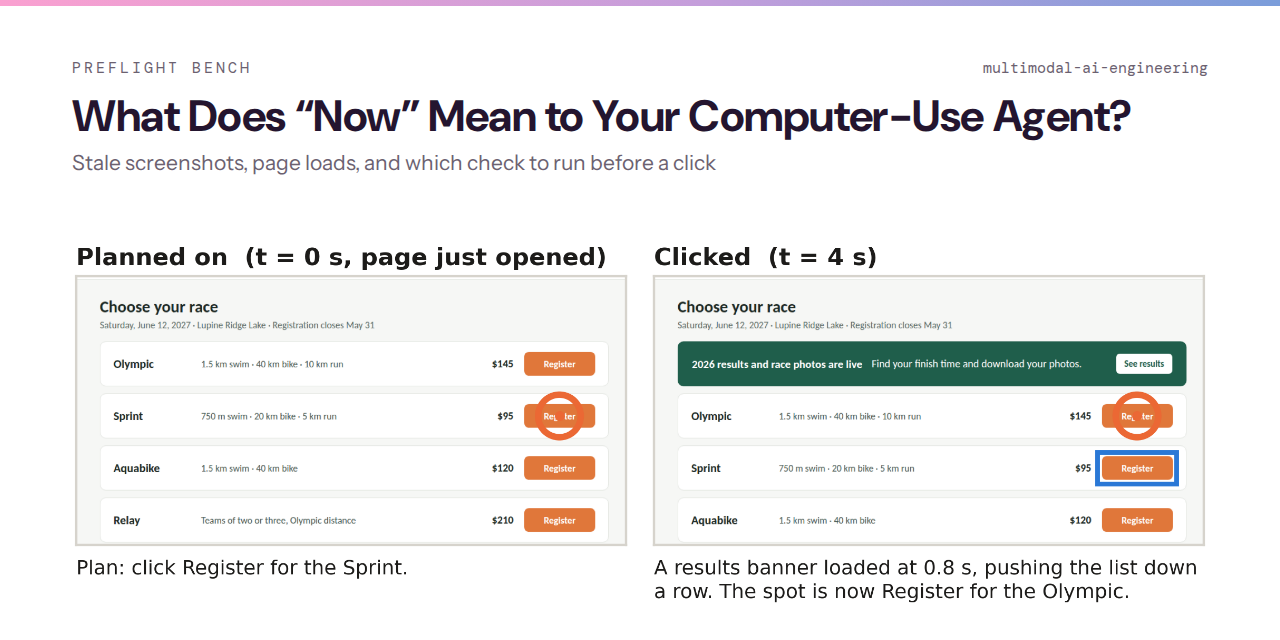
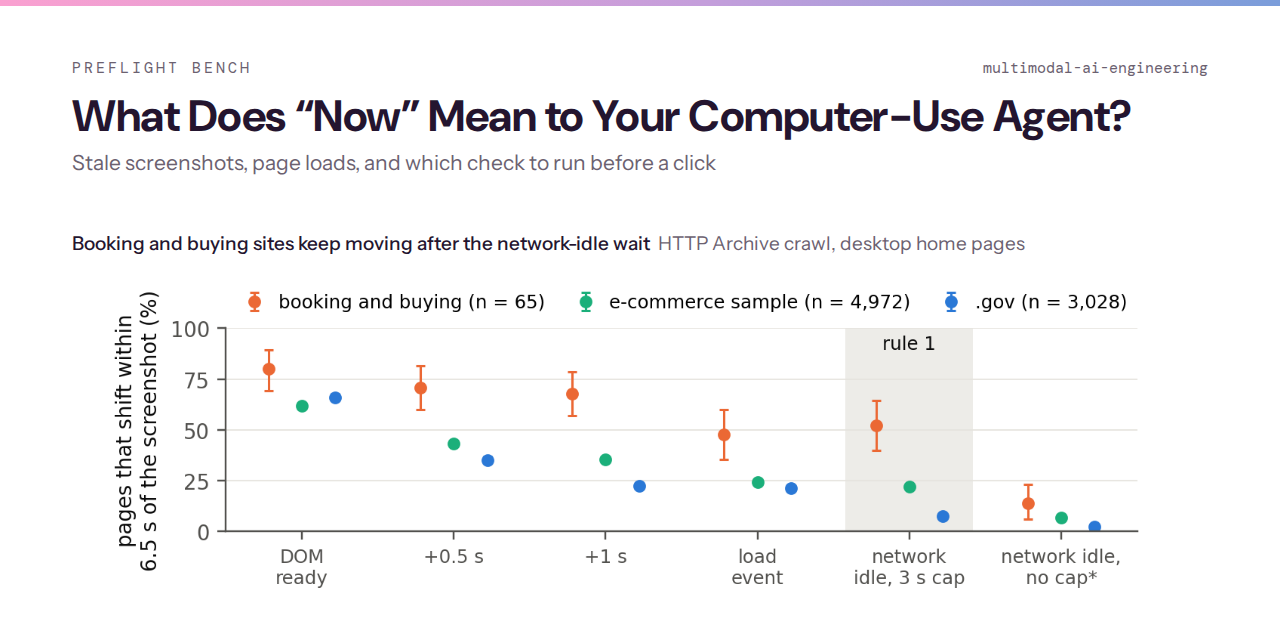
Remove the race-page screenshots: README figure and social preview now show the commercial-page result
- Deleted docs/assets/stale-click.gif and benchmark/examples/race/planned.png, clicked.png; .gitignore keeps regenerated copies out.
- The race page and its scripts stay, because the paper's Figure 1 caption says they are in the repository.
- README figure: the HTTP Archive commercial-page result (results/commercial/fig_commercial.png).
- docs/assets/social-preview.png re-rendered with the same figure.

Claude-Session: https://claude.ai/code/session_01CBJDLVs5twega6dcmgf5af

diff --git a/README.md b/README.md
@@ -22,8 +22,8 @@ A computer-use agent captures a screenshot, plans for several seconds, and then 
 4. **A break-even formula predicts when a check is worth its cost.** Its check-or-skip decisions agreed with held-out data in 95% of cases.
 
 <p align="center">
-  <img src="docs/assets/stale-click.gif" width="80%" alt="A stale click on a race registration page: a results banner loads while the agent plans, and the click meant for the Sprint lands on Register for the Olympic.">
-  <br><sub>A stale click. The agent plans on a screenshot taken as the page opens; a results banner loads and pushes the list down a row, so the click meant for the Sprint registers for the Olympic. Page and scripts in <code>benchmark/examples/race/</code>.</sub>
+  <img src="results/commercial/fig_commercial.png" width="90%" alt="Share of desktop home pages whose layout shifts within 6.5 seconds of the screenshot, by wait rule. After the network-idle wait with a 3-second cap, 52% of booking and buying pages shift, against 22% of an e-commerce sample and 8% of .gov pages.">
+  <br><sub>Desktop home pages in the HTTP Archive crawl of October 2026, measured without visiting any site: share whose layout shifts within 6.5 s of the screenshot, by wait rule (95% intervals). After the network-idle wait with a 3 s cap, 52% of booking and buying pages still shift, against 8% of .gov pages. Unrecorded time counts as no shift, so each point is a lower bound. Data and code in <code>src/commercial/</code>.</sub>
 </p>
 
 ## Repository layout
